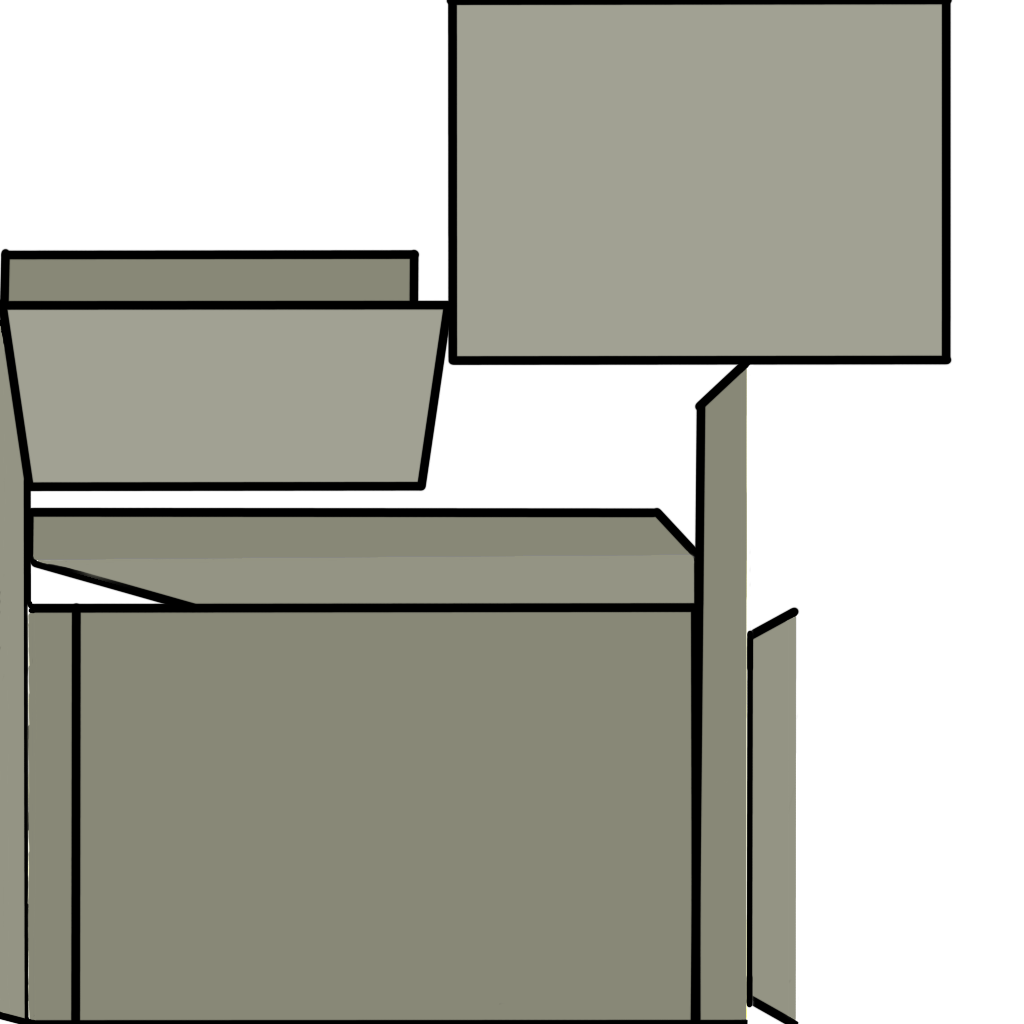
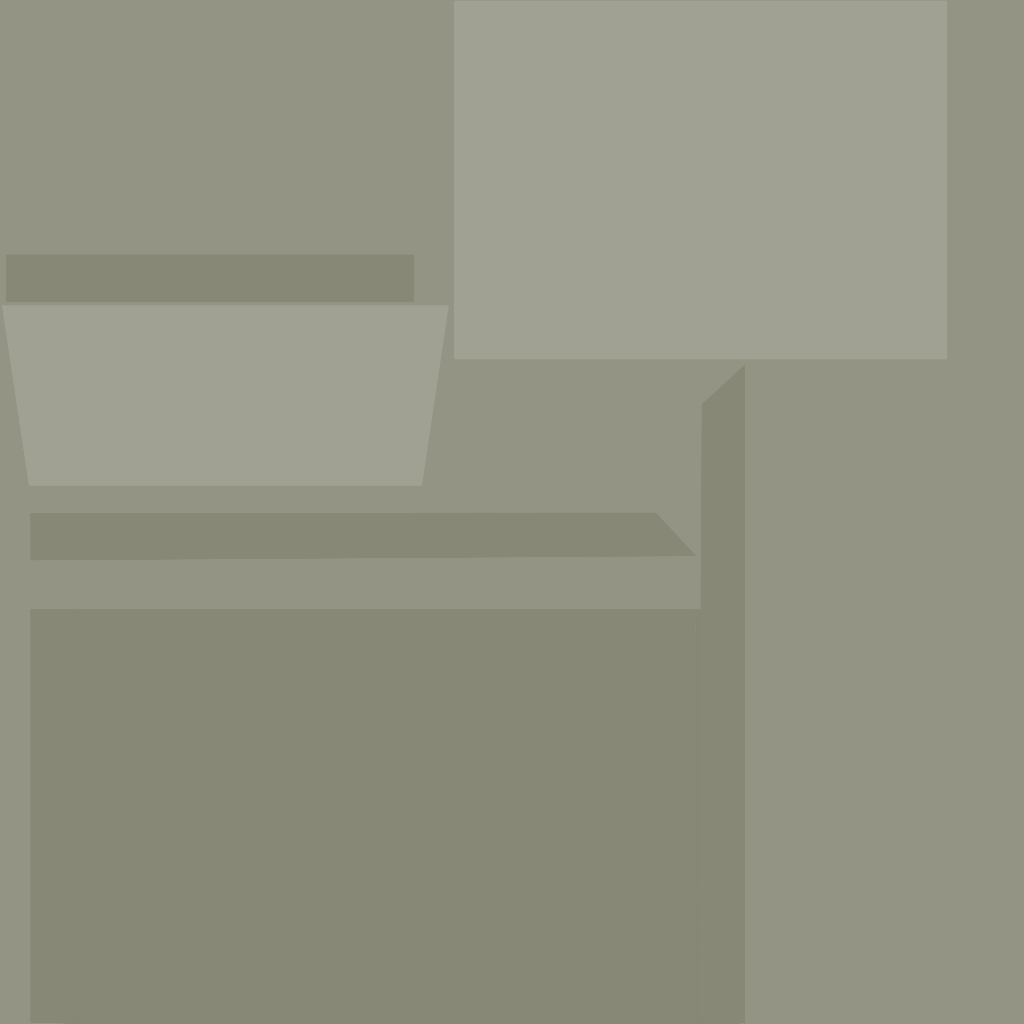
update

diff --git a/src/main.rs b/src/main.rs
@@ -110,7 +110,7 @@ fn setup(
     // camera
     cmds.spawn((
         Camera3d::default(),
-        TintShaderSettings::default(),
+        // TintShaderSettings::default(),
         StylizedShaderSettings::default(),
         DepthPrepass,
         NormalPrepass,
